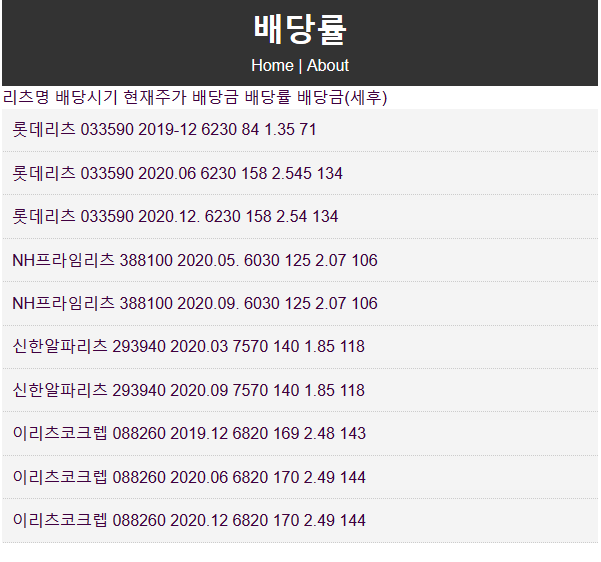
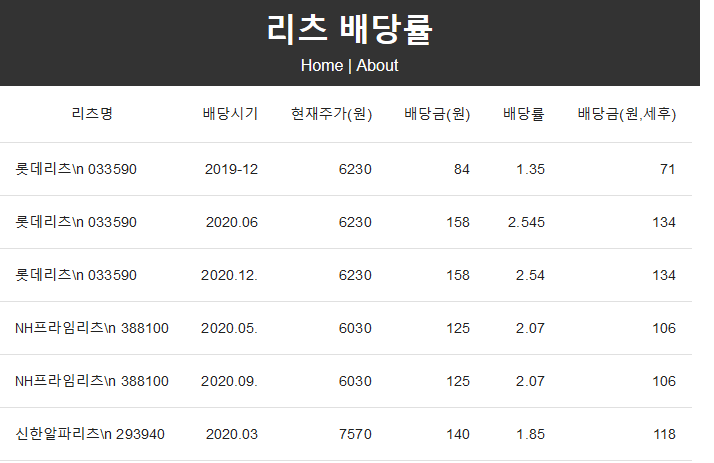
update table

diff --git a/src/App.js b/src/App.js
@@ -7,15 +7,14 @@ import { BrowserRouter as Router, Route } from 'react-router-dom';
 
 // import React from 'react';
 import { makeStyles } from '@material-ui/core/styles';
-import Table from '@material-ui/core/Table';
+// import Table from '@material-ui/core/Table';
 import TableBody from '@material-ui/core/TableBody';
 import TableCell from '@material-ui/core/TableCell';
-import TableContainer from '@material-ui/core/TableContainer';
+// import TableContainer from '@material-ui/core/TableContainer';
 import TableHead from '@material-ui/core/TableHead';
 import TableRow from '@material-ui/core/TableRow';
-import Paper from '@material-ui/core/Paper';
+// import Paper from '@material-ui/core/Paper';
 
-import Todos from './components/Todos'
 
 
 const useStyles = makeStyles({
@@ -23,65 +22,27 @@ const useStyles = makeStyles({
     minWidth: 650,
   },
 });
-function createData(name, calories, fat, carbs, protein) {
-  return { name, calories, fat, carbs, protein };
+
+function createData(id, title, code, date, price, share, rate, share_after_tax) {
+  return { id, title, code, date, price, share, rate, share_after_tax };
 }
 
 const rows = [
-  createData('Frozen yoghurt', 159, 6.0, 24, 4.0),
-  createData('Ice cream sandwich', 237, 9.0, 37, 4.3),
-  createData('Eclair', 262, 16.0, 24, 6.0),
-  createData('Cupcake', 305, 3.7, 67, 4.3),
-  createData('Gingerbread', 356, 16.0, 49, 3.9),
+  createData(1, '롯데리츠', '033590','2019-12', 6230, 84, 1.35, 71),
+  createData(2, '롯데리츠', '033590', '2020.06', 6230, 158, 2.545, 134),
+  createData(3, '롯데리츠', '033590', '2020.12.', 6230, 158, 2.54, 134),
+  createData(4, 'NH프라임리츠', '388100', '2020.05.', 6030, 125, 2.07, 106),
+  createData(5, 'NH프라임리츠', '388100', '2020.09.', 6030, 125, 2.07, 106),
+  createData(6, '신한알파리츠', '293940', '2020.03', 7570, 140, 1.85, 118),
+  createData(7, '신한알파리츠', '293940', '2020.09', 7570, 140, 1.85, 118),
+  createData(8, '이리츠코크렙', '088260', '2019.12', 6820, 169, 2.48, 143),
+  createData(9, '이리츠코크렙', '088260', '2020.06', 6820, 170, 2.49, 144),
+  createData(10, '이리츠코크렙', '088260', '2020.12', 6820, 170, 2.49, 144),
 ];
-
 
 export class App extends Component {
 
-  state = {
-    todos:[
-      {
-        id:1, title:'롯데리츠', code:'033590', date:'2019-12', price:6230,
-        share:84, rate:1.35, share_after_tax:71, completed:false
-      },
-      {
-        id:2, title:'롯데리츠', code:'033590', date:'2020.06',price:6230,
-        share:158, rate:2.545, share_after_tax:134, completed:false
-      },
-      {
-        id:3, title:'롯데리츠', code:'033590', date:'2020.12.', price:6230,
-        share:158, rate:2.54, share_after_tax:134, completed:false
-      },
-      {
-        id:4, title:'NH프라임리츠', code:'388100', date:'2020.05.', price:6030,
-        share:125, rate:2.07, share_after_tax:106, completed:false
-      },
-      {
-        id:5, title:'NH프라임리츠', code:'388100', date:'2020.09.', price:6030,
-        share:125, rate:2.07, share_after_tax:106, completed:false
-      },
-      {
-        id:6, title:'신한알파리츠', code:'293940', date:'2020.03', price:7570,
-        share:140, rate:1.85, share_after_tax:118, completed:false
-      },
-      {
-        id:7, title:'신한알파리츠', code:'293940', date:'2020.09', price:7570,
-        share:140, rate:1.85, share_after_tax:118, completed:false
-      },
-      {
-        id:8, title:'이리츠코크렙', code:'088260', date:'2019.12', price:6820,
-        share:169, rate:2.48, share_after_tax:143, completed:false
-      },
-      {
-        id:9, title:'이리츠코크렙', code:'088260', date:'2020.06', price:6820,
-        share:170, rate:2.49, share_after_tax:144, completed:false
-      },
-      {
-        id:10, title:'이리츠코크렙', code:'088260', date:'2020.12', price:6820,
-        share:170, rate:2.49, share_after_tax:144, completed:false
-      },
-    ]
-  }
+  
 
   
   render() {
@@ -93,9 +54,32 @@ export class App extends Component {
             <Header/>
             <Route exact path="/" render={props => (
               <React.Fragment>
-                
-                {'리츠명'} {'배당시기'} {'현재주가'} {'배당금'} {'배당률'} {'배당금(세후)'}
-                <Todos todos={this.state.todos}></Todos>
+
+                  <TableHead>
+                    <TableRow rowSpan="2">
+                      <TableCell align="center">리츠명</TableCell>
+                      <TableCell align="right">배당시기</TableCell>
+                      <TableCell align="right">
+                        현재주가(원)
+                        </TableCell>
+                      <TableCell align="right">배당금(원)</TableCell>
+                      <TableCell align="right">배당률</TableCell>
+                      <TableCell align="right">배당금(원,세후)</TableCell>
+                    </TableRow>
+                  </TableHead>
+                  <TableBody>
+                    {rows.map(row => (
+                      <TableRow key={row.id}>
+                        <TableCell align="left">{row.title}\n{'\n'}
+                        {row.code}</TableCell>
+                        <TableCell align="right">{row.date}</TableCell>
+                        <TableCell align="right">{row.price}</TableCell>
+                        <TableCell align="right">{row.share}</TableCell>
+                        <TableCell align="right">{row.rate}</TableCell>
+                        <TableCell align="right">{row.share_after_tax}</TableCell>
+                      </TableRow>
+                    ))}
+                  </TableBody>
 
               </React.Fragment>
             )}></Route>
